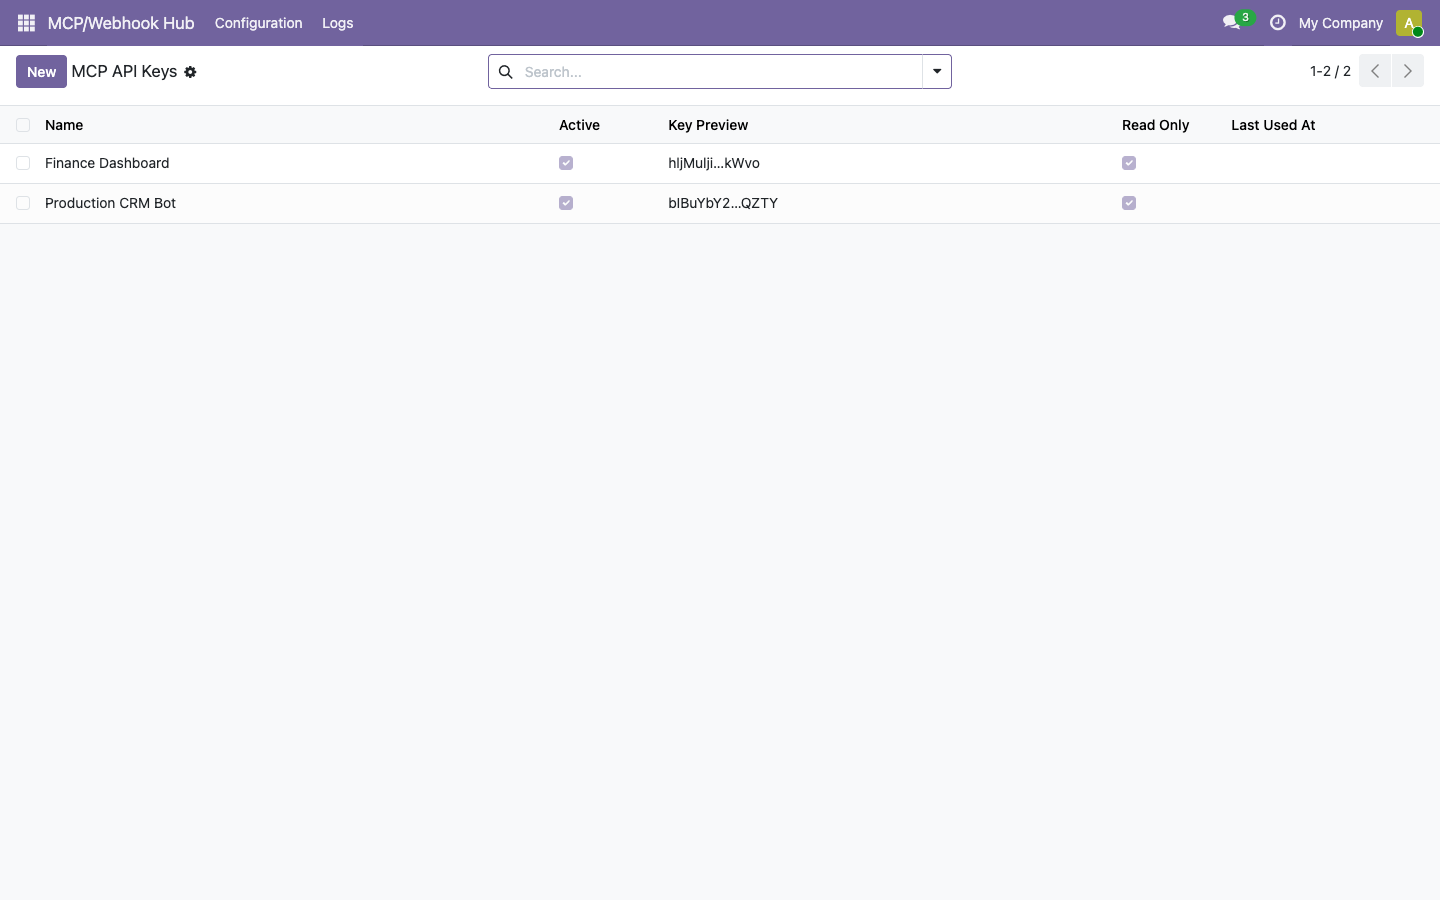
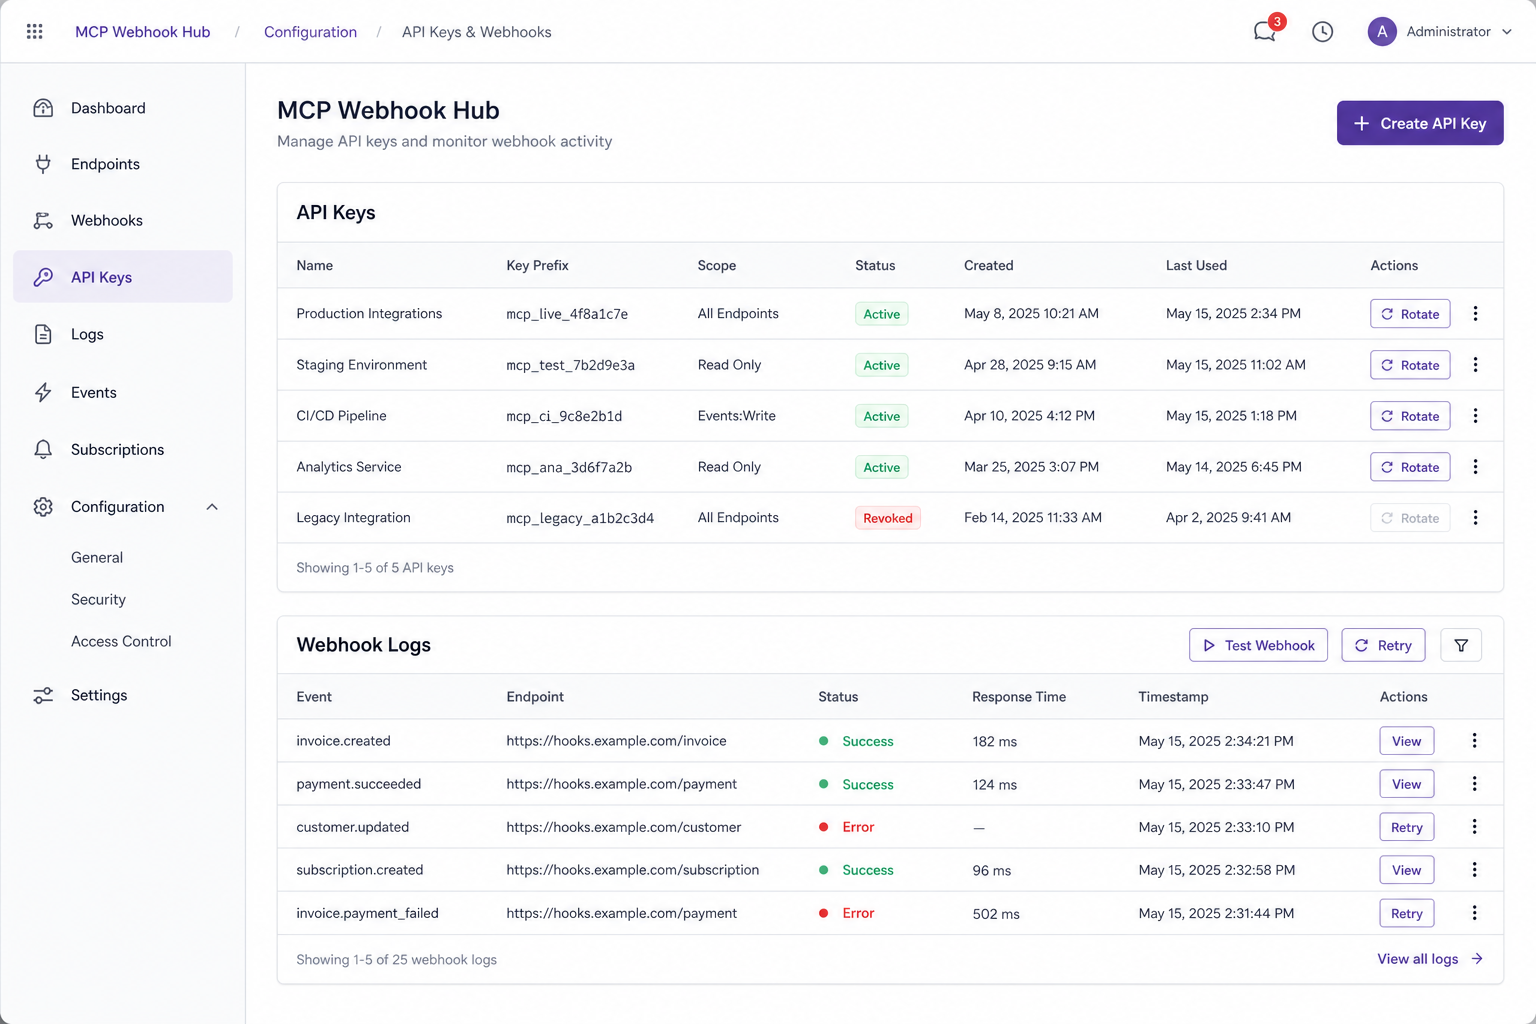
design: add module-specific screenshots and simplify Odoo store copy

diff --git a/gf_mcp_webhook_hub/static/description/index.html b/gf_mcp_webhook_hub/static/description/index.html
@@ -1,132 +1,20 @@
 <section class="oe_container" style="font-family:-apple-system,BlinkMacSystemFont,'Segoe UI',Roboto,Arial,sans-serif;">
-    <div class="oe_row oe_spaced">
-        <div class="oe_span12 text-center">
-            <img src="preview.png" alt="MCP Webhook Hub for Odoo 19" style="width:100%;max-width:1100px;border-radius:18px;border:1px solid #dde2ea;box-shadow:0 16px 44px rgba(25,31,45,.12);"/>
-        </div>
+  <div class="oe_row oe_spaced text-center">
+    <div class="oe_span12">
+      <h2 class="oe_slogan" style="color:#714B67;font-weight:800;">MCP Webhook Hub</h2>
+      <h3 class="oe_slogan" style="color:#555;font-weight:400;">Secure read-only MCP access and signed webhooks for Odoo 19</h3>
     </div>
+  </div>
 </section>
-
 <section class="oe_container" style="font-family:-apple-system,BlinkMacSystemFont,'Segoe UI',Roboto,Arial,sans-serif;">
-    <div class="oe_row oe_spaced text-center">
-        <div class="oe_span12">
-            <h2 class="oe_slogan" style="color:#714B67;font-weight:800;">Controlled AI access and signed webhooks for Odoo 19</h2>
-            <h3 class="oe_slogan" style="color:#555;font-weight:400;">Read-only MCP endpoint, scoped API keys, audit logs, and business-event webhooks.</h3>
-            <p style="max-width:820px;margin:24px auto;font-size:18px;line-height:1.65;color:#555;">
-                MCP Webhook Hub lets technical Odoo teams expose selected data to AI agents and automation systems without enabling write, delete, or raw SQL operations.
-                Each API key is scoped to allowed models, requests are logged, and outbound webhook payloads are signed with HMAC-SHA256.
-            </p>
-        </div>
-    </div>
+  <div class="oe_row oe_spaced"><div class="oe_span12 text-center"><img src="main_screenshot.png" alt="MCP Webhook Hub main" style="width:100%;max-width:1100px;border-radius:14px;border:1px solid #dde2ea;box-shadow:0 10px 28px rgba(25,31,45,.12);"/></div></div>
 </section>
-
 <section class="oe_container oe_dark" style="font-family:-apple-system,BlinkMacSystemFont,'Segoe UI',Roboto,Arial,sans-serif;">
-    <div class="oe_row oe_spaced">
-        <div class="oe_span4">
-            <h3 style="font-weight:800;color:#222;">Read-only endpoint</h3>
-            <p style="font-size:16px;line-height:1.6;color:#555;">
-                The v1 MCP endpoint supports list, search, read, and count operations only. No create, write, unlink, or raw SQL access is exposed.
-            </p>
-        </div>
-        <div class="oe_span4">
-            <h3 style="font-weight:800;color:#222;">Scoped API keys</h3>
-            <p style="font-size:16px;line-height:1.6;color:#555;">
-                Restrict each key to a model allowlist. Tokens are SHA-256 hashed at rest and displayed only as previews after creation.
-            </p>
-        </div>
-        <div class="oe_span4">
-            <h3 style="font-weight:800;color:#222;">Auditable delivery</h3>
-            <p style="font-size:16px;line-height:1.6;color:#555;">
-                Track allowed, denied, and error requests. Webhook deliveries keep status, response code, response body, and error information.
-            </p>
-        </div>
-    </div>
+  <div class="oe_row oe_spaced"><div class="oe_span6"><h3 style="font-weight:700;">Business Problem</h3><p style="font-size:16px;line-height:1.6;">AI and automation integrations often expose too much data access and leave weak audit trails.</p></div><div class="oe_span6"><h3 style="font-weight:700;">What this module does</h3><ul style="font-size:16px;line-height:1.7;"><li>Read-only MCP operations (list/search/read/count)</li><li>Scoped API keys with model allowlists</li><li>HMAC-signed webhook delivery with detailed logs</li></ul></div></div>
 </section>
-
 <section class="oe_container" style="font-family:-apple-system,BlinkMacSystemFont,'Segoe UI',Roboto,Arial,sans-serif;">
-    <div class="oe_row oe_spaced">
-        <div class="oe_span6">
-            <h3 style="font-weight:800;color:#222;">MCP endpoint</h3>
-            <p style="font-size:16px;line-height:1.6;color:#555;">
-                Use <code>POST /gf_mcp_webhook_hub/mcp</code> with Bearer token authentication to provide controlled read access for agents, reporting tools, and workflow systems.
-            </p>
-            <table class="table table-bordered" style="background:white;">
-                <thead><tr><th>Action</th><th>Description</th></tr></thead>
-                <tbody>
-                    <tr><td><code>list_models</code></td><td>Show models available to the API key</td></tr>
-                    <tr><td><code>search</code></td><td>Search records by Odoo domain</td></tr>
-                    <tr><td><code>read</code></td><td>Read selected fields from selected records</td></tr>
-                    <tr><td><code>count</code></td><td>Count records matching a domain</td></tr>
-                </tbody>
-            </table>
-        </div>
-        <div class="oe_span6">
-            <h3 style="font-weight:800;color:#222;">Signed webhooks</h3>
-            <p style="font-size:16px;line-height:1.6;color:#555;">
-                Deliver selected Odoo business events to external HTTP endpoints. Payloads are signed with HMAC-SHA256 so receivers can verify authenticity.
-            </p>
-            <table class="table table-bordered" style="background:white;">
-                <thead><tr><th>Event</th><th>Trigger</th></tr></thead>
-                <tbody>
-                    <tr><td><code>sale_order_confirmed</code></td><td>Quotation is confirmed</td></tr>
-                    <tr><td><code>invoice_posted</code></td><td>Invoice or credit note is posted</td></tr>
-                    <tr><td><code>stock_picking_done</code></td><td>Delivery or receipt is validated</td></tr>
-                </tbody>
-            </table>
-        </div>
-    </div>
+  <div class="oe_row oe_spaced"><div class="oe_span12 text-center"><img src="screenshot_1.png" alt="MCP Webhook Hub feature" style="width:100%;max-width:1100px;border-radius:14px;border:1px solid #dde2ea;box-shadow:0 10px 28px rgba(25,31,45,.12);"/></div></div>
 </section>
-
 <section class="oe_container oe_dark" style="font-family:-apple-system,BlinkMacSystemFont,'Segoe UI',Roboto,Arial,sans-serif;">
-    <div class="oe_row oe_spaced text-center">
-        <div class="oe_span12">
-            <h2 class="oe_slogan" style="color:#714B67;font-weight:800;">Odoo interface</h2>
-            <p style="max-width:760px;margin:12px auto 32px;font-size:16px;line-height:1.65;color:#555;">
-                Configuration and logs use standard Odoo views, permissions, and access groups.
-            </p>
-        </div>
-        <div class="oe_span6"><img src="main_screenshot.png" style="width:100%;border-radius:12px;border:1px solid #dde2ea;box-shadow:0 10px 28px rgba(25,31,45,.10);" alt="MCP API Keys"/><h4>MCP API Keys</h4></div>
-        <div class="oe_span6"><img src="screenshot_webhook_rules.png" style="width:100%;border-radius:12px;border:1px solid #dde2ea;box-shadow:0 10px 28px rgba(25,31,45,.10);" alt="Webhook Rules"/><h4>Webhook Rules</h4></div>
-    </div>
-    <div class="oe_row oe_spaced text-center">
-        <div class="oe_span6"><img src="screenshot_audit_logs.png" style="width:100%;border-radius:12px;border:1px solid #dde2ea;box-shadow:0 10px 28px rgba(25,31,45,.10);" alt="MCP Audit Logs"/><h4>MCP Audit Logs</h4></div>
-        <div class="oe_span6"><img src="screenshot_webhook_logs.png" style="width:100%;border-radius:12px;border:1px solid #dde2ea;box-shadow:0 10px 28px rgba(25,31,45,.10);" alt="Webhook Logs"/><h4>Webhook Delivery Logs</h4></div>
-    </div>
-</section>
-
-<section class="oe_container" style="font-family:-apple-system,BlinkMacSystemFont,'Segoe UI',Roboto,Arial,sans-serif;">
-    <div class="oe_row oe_spaced">
-        <div class="oe_span6">
-            <h3 style="font-weight:800;color:#222;">Technical details</h3>
-            <ul style="font-size:16px;line-height:1.8;color:#555;">
-                <li>Odoo 19.0</li>
-                <li>Dependencies: base, mail, sale, account, stock</li>
-                <li>License: OPL-1</li>
-                <li>No external Python packages required</li>
-                <li>Dedicated MCP/Webhook Hub Manager access group</li>
-            </ul>
-        </div>
-        <div class="oe_span6">
-            <h3 style="font-weight:800;color:#222;">Release checks</h3>
-            <ul style="font-size:16px;line-height:1.8;color:#555;">
-                <li>Docker install test on Odoo 19</li>
-                <li>19 module tests passing</li>
-                <li>Static module checks</li>
-                <li>Manifest validation</li>
-                <li>Clean release packaging</li>
-            </ul>
-        </div>
-    </div>
-</section>
-
-<section class="oe_container oe_dark" style="font-family:-apple-system,BlinkMacSystemFont,'Segoe UI',Roboto,Arial,sans-serif;">
-    <div class="oe_row oe_spaced text-center">
-        <div class="oe_span12">
-            <h3 style="font-weight:800;color:#222;">Support scope</h3>
-            <p style="max-width:760px;margin:16px auto;font-size:16px;line-height:1.65;color:#555;">
-                Support covers installation issues and confirmed bugs in the purchased Odoo 19 version.
-                Custom development, migrations to other Odoo versions, third-party platform setup, and custom integration work are not included.
-                Statutory rights and the Odoo Apps refund policy remain unaffected.
-            </p>
-        </div>
-    </div>
+  <div class="oe_row oe_spaced"><div class="oe_span12"><h3 style="font-weight:700;">Support</h3><p style="font-size:16px;line-height:1.6;">[email redacted]</p></div></div>
 </section>